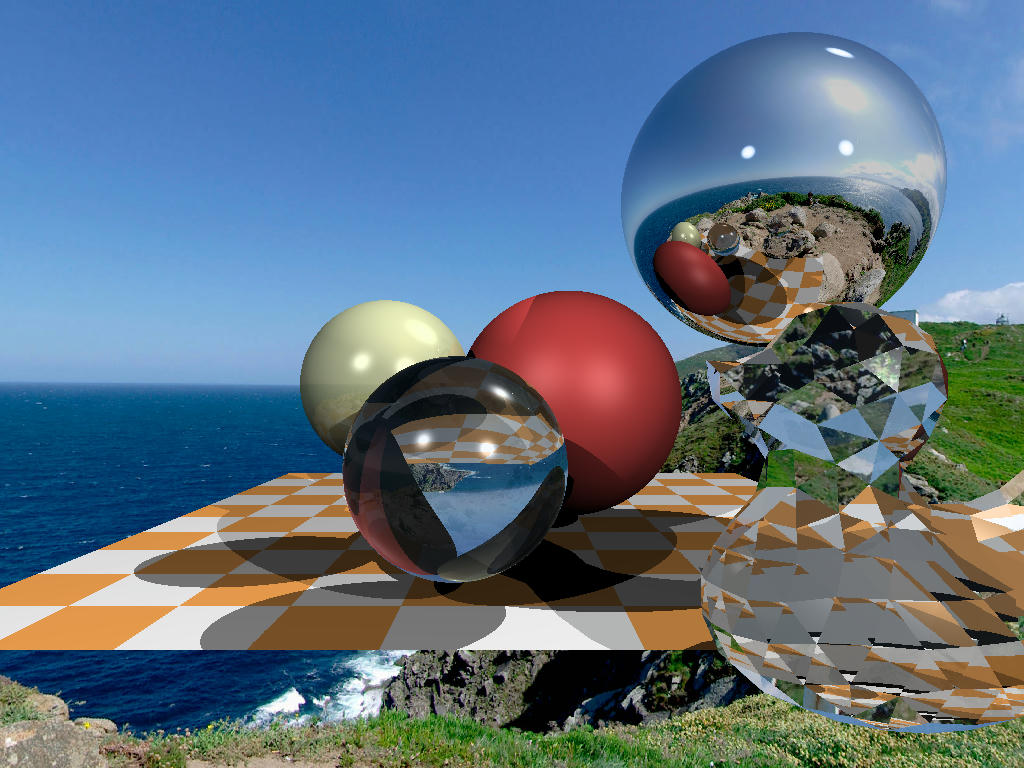
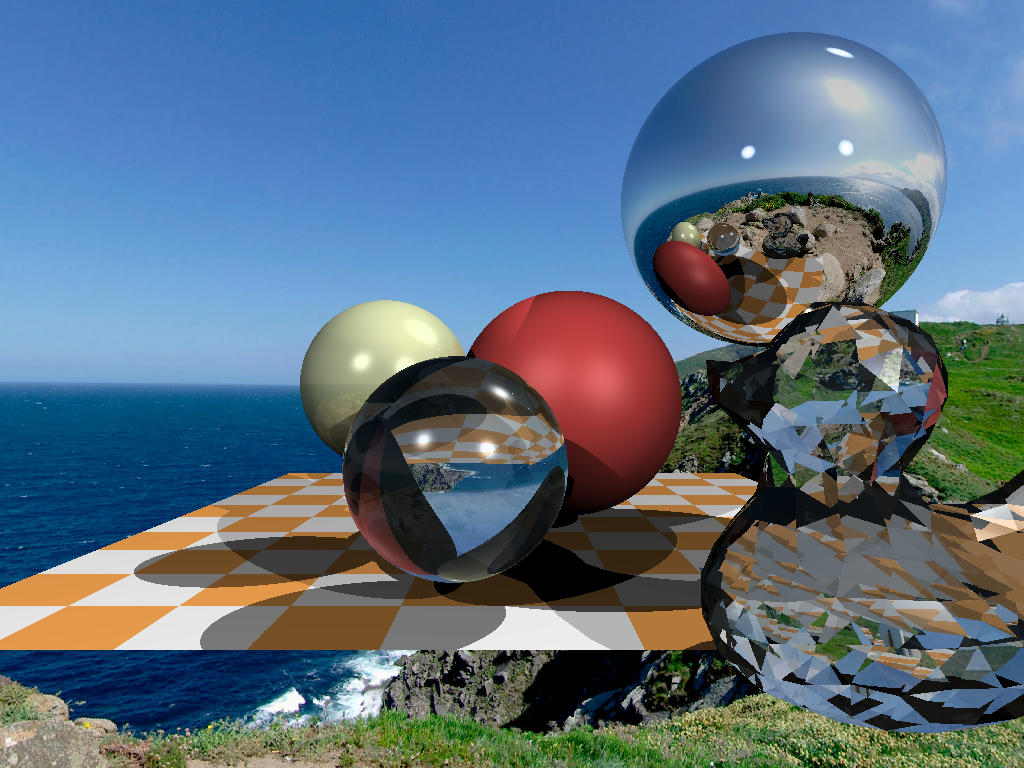
correct two-sided triangle intersection

Changed region(s): [[0.6875, 0.375, 1.0, 0.9688], [0.75, 0.2812, 0.7812, 0.3438]]

diff --git a/src/ray_tracer/model.rs b/src/ray_tracer/model.rs
@@ -108,7 +108,7 @@ fn ray_triangle_intersect(
     let edge2 = vert2 - vert0;
     let h = dir.cross(&edge2);
     let det = edge1.dot(&h);
-    if det < 1e-5 {
+    if det.abs() < 1e-5 {
         return None;
     }
     let l_det = 1. / det;
